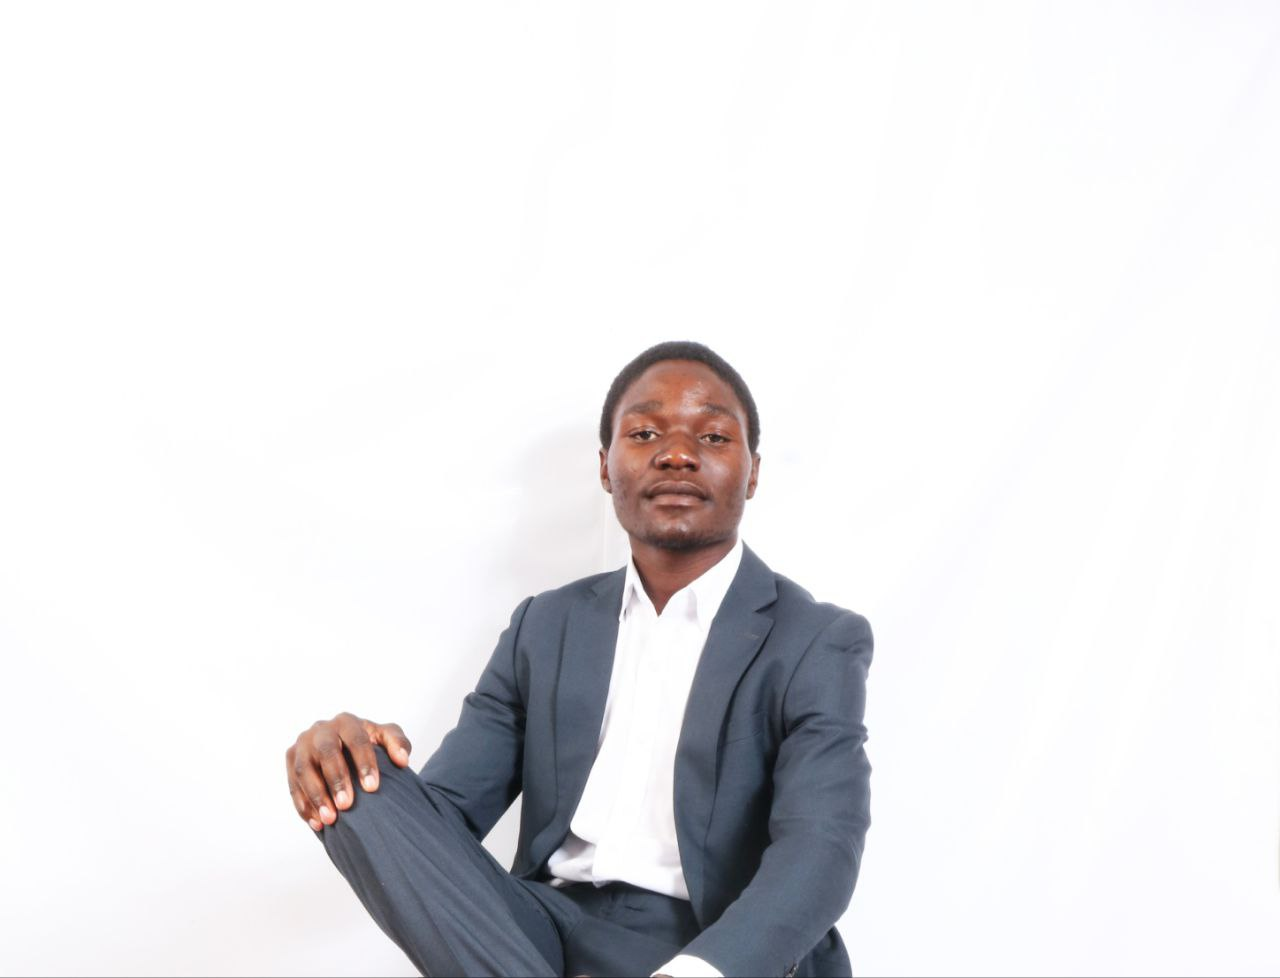
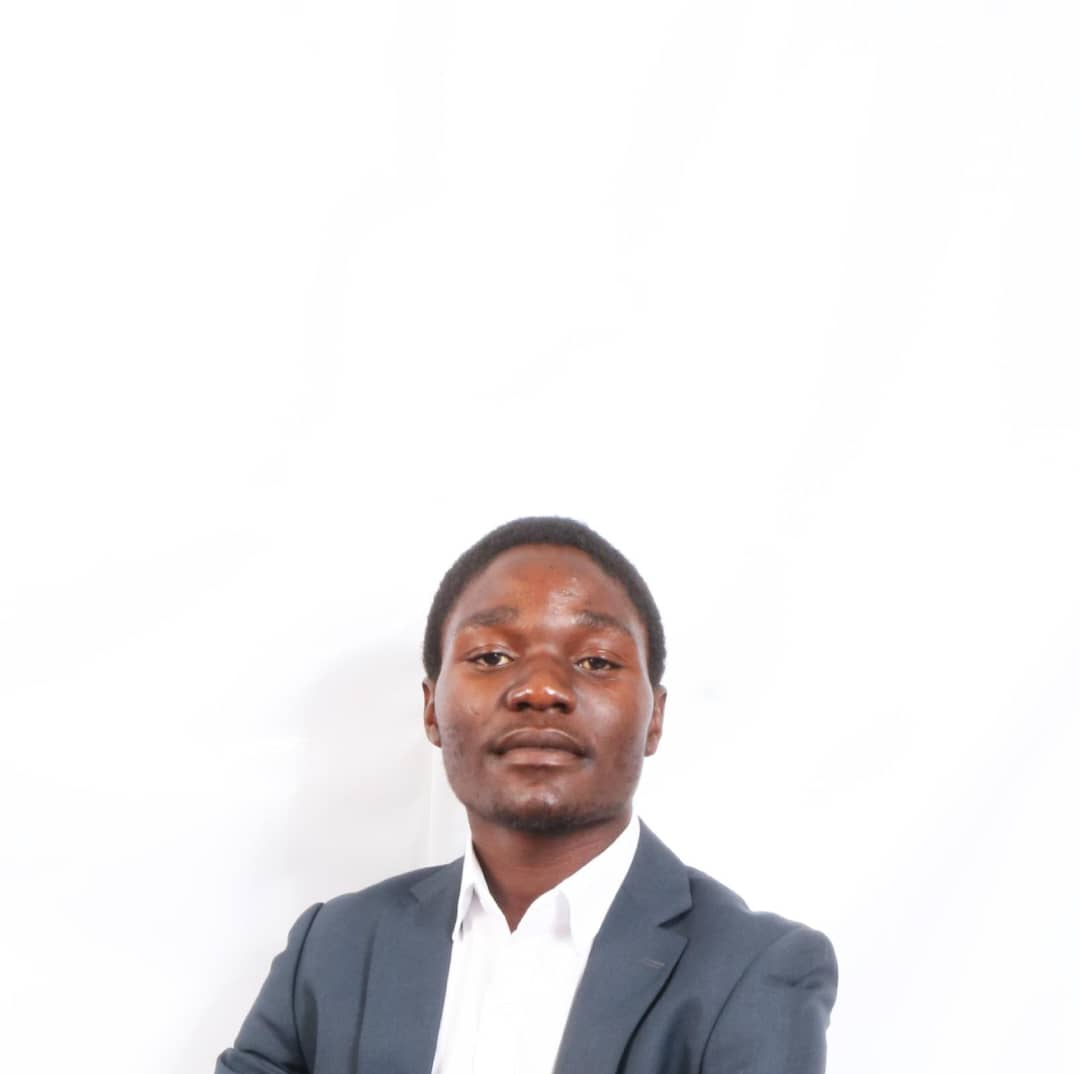
[ADD]: Correct images
[ADD]: Sir Morris data

Changed region(s): [[0.1833, 0.3374, 0.7944, 1.0]]

diff --git a/src/components/pages/about/team-section.tsx b/src/components/pages/about/team-section.tsx
@@ -20,7 +20,7 @@ const teamMembers: TeamMember[] = [
         title: 'Chief Executive Officer',
         specialization: 'Investment Strategy',
         image: '/images/team/mike.jpg',
-        bio: `Mike is an experienced strategist...`,
+        bio: `Mike is the visionary behind our firm, driving our mission to empower individuals through investment education and opportunities. With a background in finance and a passion for technology, he leads our strategic direction and ensures we remain at the forefront of the investment landscape. Mike's leadership is characterized by his commitment to innovation, integrity, and excellence.`,
     },
     {
         id: 2,
@@ -28,24 +28,23 @@ const teamMembers: TeamMember[] = [
         title: 'Chief Technology Officer & Chief Operations Officer',
         specialization: 'Technology & Operations',
         image: '/images/team/kin.jpg',
-        bio: `Kin leads technology and operations...`,
+        bio: `Kin, a seasoned software engineer with a passion for technology`,
     },
     {
         id: 3,
         name: 'Clint Tadiwanashe Muchabveyo',
         title: 'Project Manager',
         specialization: 'Project Management',
-        image: '/images/team/clint.jpg',
+        image: '/images/team/clint.jpeg',
         bio: `A seasoned project manager currently studying Civil Engineering, Clint brings a wealth of experience in managing complex projects. His expertise lies in coordinating teams, ensuring timely delivery, and maintaining high standards of quality. With a keen eye for detail and a proactive approach, Clint is instrumental in driving our projects to successful completion.`,
     },
     {
         id: 4,
-        name: 'Lorem ipsum dolor',
+        name: 'Morris',
         title: 'Chief Financial Officer',
         specialization: 'Financial Management',
-        image: '/images/team/lorem.jpg',
-        bio: "Lorem ipsum dolor sit amet, consectetur adipiscing elit. Sed do eiusmod tempor incididunt ut labore et dolore magna aliqua. Ut enim ad minim veniam, quis nostrud exercitation ullamco laboris nisi ut aliquip ex ea commodo consequat.",
-    },
+        image: '/images/team/morris.jpg',
+        bio: `Morris is a financial expert with a strong background in investment management. As the Chief Financial Officer, he oversees our financial operations, ensuring that we maintain a healthy balance sheet and make sound investment decisions. His analytical skills and strategic thinking are key to our financial success, allowing us to navigate the complexities of the investment landscape with confidence.`,},
     {
         id: 5,
         name: 'Emmanuel Da Graça Joaquim Dique',
@@ -53,6 +52,14 @@ const teamMembers: TeamMember[] = [
         specialization: 'Education & Training',
         image: '/images/team/emmanuel.jpg',
         bio: `Emmanuel is a dedicated educator with a passion for empowering individuals through knowledge. As the Head of Education & Training, he designs and implements comprehensive training programs that equip our team and clients with the skills needed to excel in the investment landscape. His commitment to continuous learning ensures that we stay ahead in a rapidly evolving market.`,
+    },
+    {
+        id: 6,
+        name: 'Tadiwa Peter Chigora',
+        title: 'Chief Marketing Officer',
+        specialization: 'Marketing & Communications',
+        image: '/images/team/tadiwa.jpg',
+        bio: `A seasoned marketing professional with a passion for storytelling, Tadiwa spearheads our marketing efforts. He is a data-driven marketer with a keen eye for detail and a deep understanding of the investment landscape. By leveraging his expertise in digital marketing, branding, and communications, Tadiwa helps us build strong relationships with our clients and stakeholders.`
     },
 ];
 
